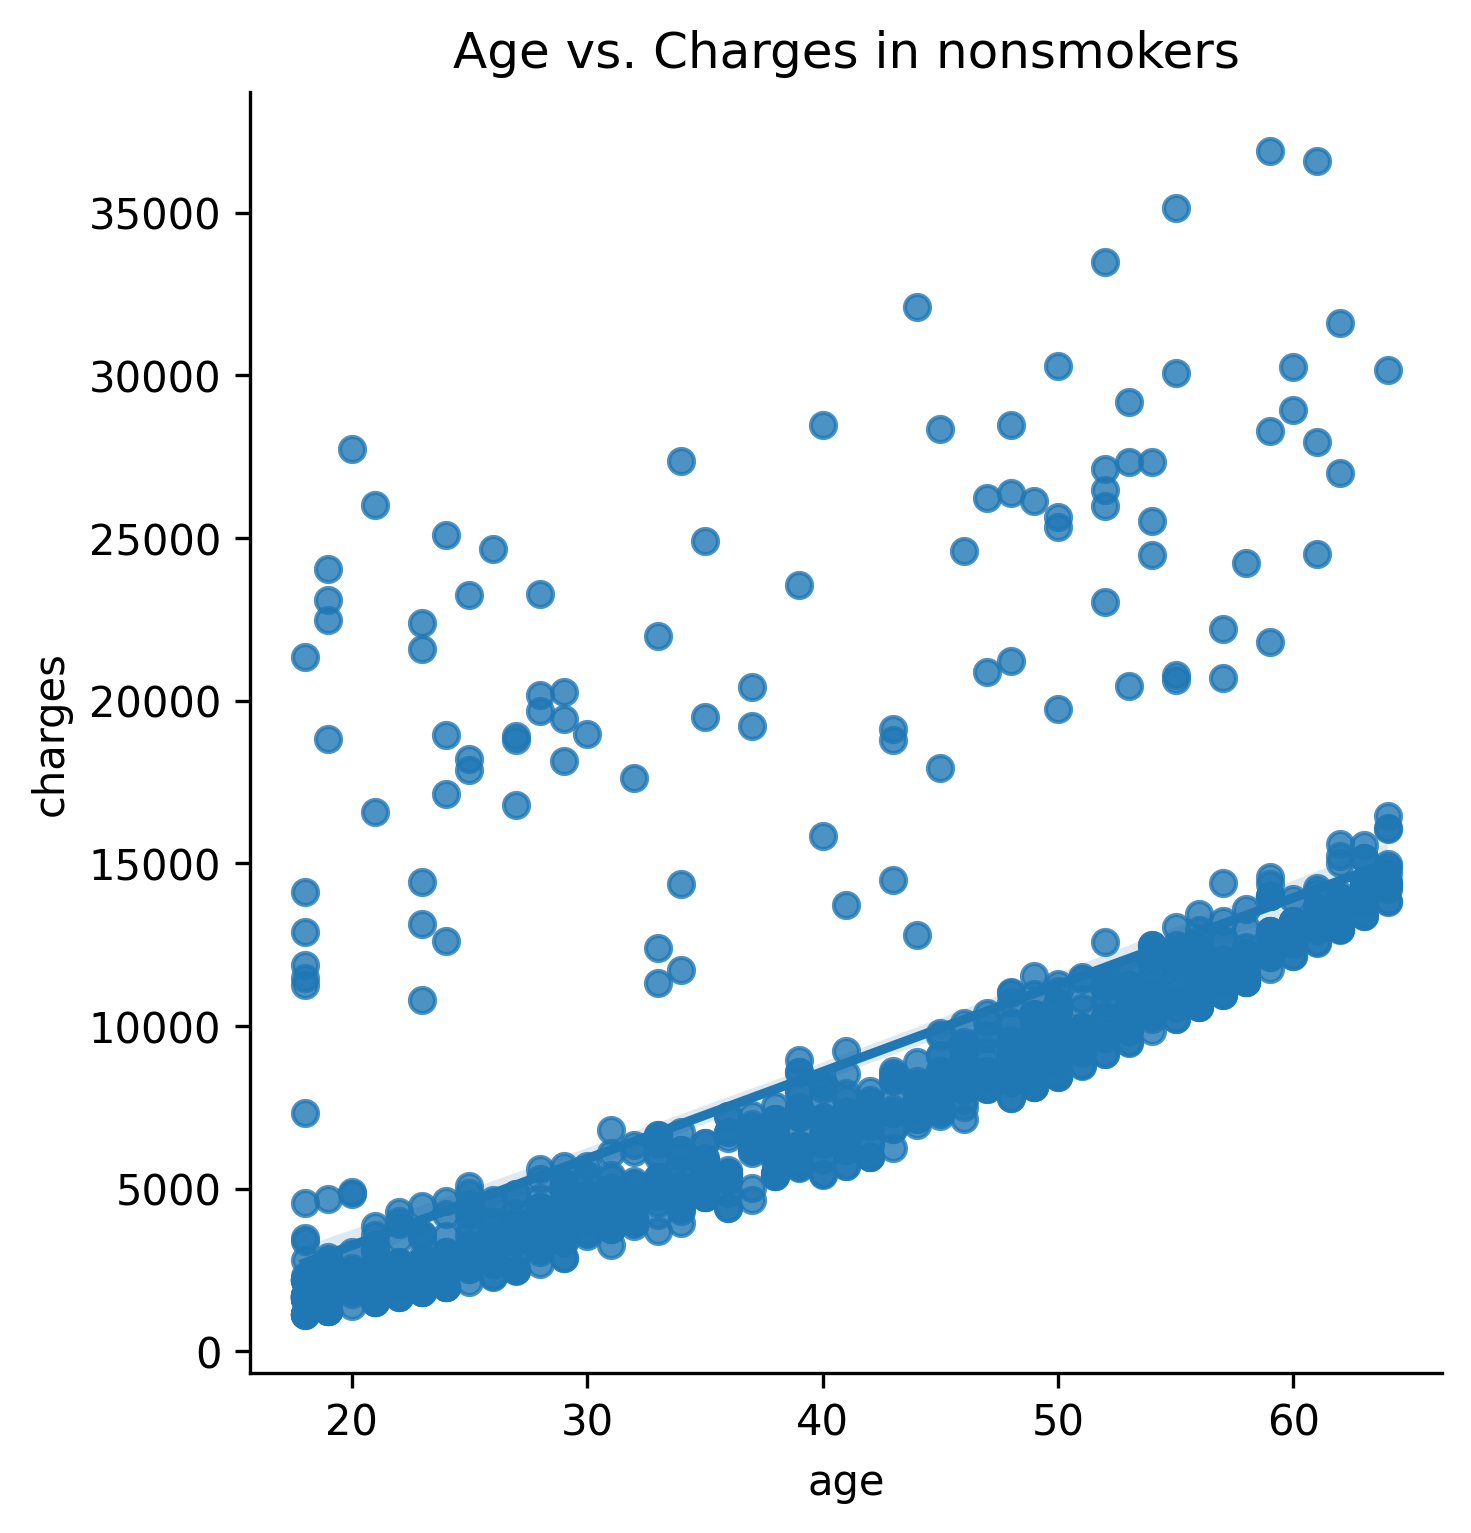
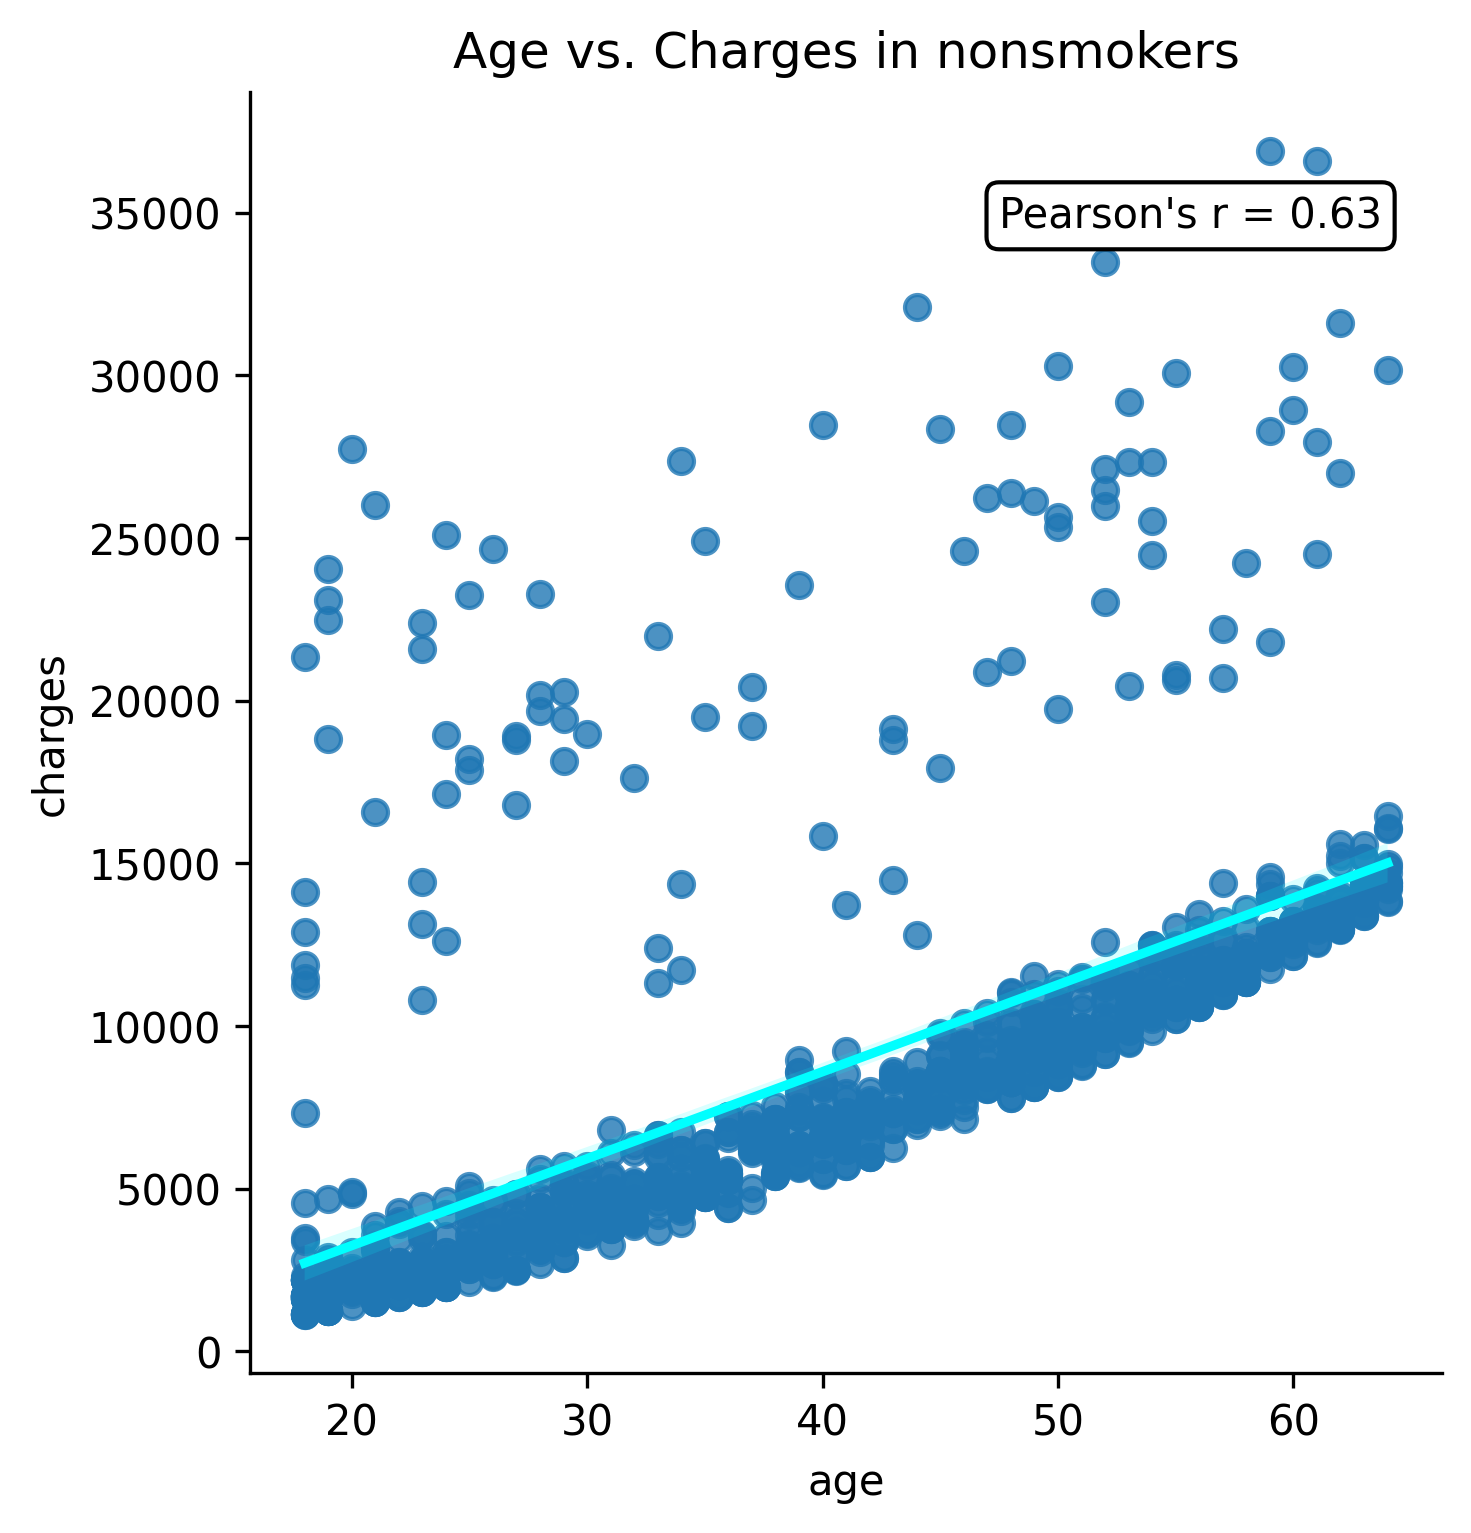
new plot

diff --git a/cost_eda.py b/cost_eda.py
@@ -472,7 +472,7 @@ for legend_label in labels:
     else:
         legend_label.set_text("Yes (Pearson's %0.2f)" %pearson_age_charge_ob)
 plt.title("Age vs. Charges in smokers, grouped by BMI (30)")
-save_filename = 'age_vs_charges_nonsmokers_grp_bmi30'
+save_filename = 'age_vs_charges_smokers_grp_bmi30'
 save_image(output_dir, save_filename, bbox_inches='tight')
 plt.show()
 
@@ -506,7 +506,7 @@ for legend_label in labels:
     else:
         legend_label.set_text("Yes (Pearson's %0.2f)" %pearson_age_charge_ob)
 plt.title("Age vs. Charges in smokers, grouped by BMI (29)")
-save_filename = 'age_vs_charges_nonsmokers_grp_bmi29'
+save_filename = 'age_vs_charges_smokers_grp_bmi29'
 save_image(output_dir, save_filename, bbox_inches='tight')
 plt.show()
 
@@ -539,37 +539,41 @@ for legend_label in labels:
     else:
         legend_label.set_text("Yes (Pearson's %0.2f)" %pearson_age_charge_ob)
 plt.title("Age vs. Charges in smokers, grouped by BMI(31)")
-save_filename = 'age_vs_charges_nonsmokers_grp_bmi31'
+save_filename = 'age_vs_charges_smokers_grp_bmi31'
 save_image(output_dir, save_filename, bbox_inches='tight')
 plt.show()
 
 # =============================
 # Explore nonsmokers
 # =============================
-sns.lmplot(x='age', y='charges', hue="children", data=nonsmokers_data)
+pearson_nonsmokers = nonsmokers_data.corr(method='pearson')['age'].loc['charges'].round(2)
+g = sns.lmplot(x='age', y='charges', data=nonsmokers_data)
+ax = g.axes[0,0]
+textbox_text = "Pearson's r = %0.2f" %pearson_nonsmokers
+plt.text(0.95, 0.92, textbox_text, bbox=box_style, transform=ax.transAxes, 
+         verticalalignment='top', horizontalalignment='right')
+
+plt.title("Age vs. Charges in nonsmokers")
+#save_filename = 'age_vs_charges_nonsmokers'
+#save_image(output_dir, save_filename, bbox_inches='tight')
 plt.show()
 
-# Nonsmokers group does not group well by BMI, sex, region, or # children (I left that code out)
-
+# Nonsmokers do not group well by BMI, sex, region, or # children (I left that code out)
 
 
 # =============================
 # Explore BMI vs. Charges
 # =============================
-
-# More Exploration
-sns.jointplot(x='bmi', y="charges", data = dataset, hue='smoker')
-plt.show()
-sns.jointplot(x='bmi', y="charges", data = dataset, kind='kde', hue='smoker')
-plt.show()
 sns.lmplot(x='bmi', y='charges', hue="smoker", data=dataset)
 plt.show()
 
+# Other subgroupings don't yield anything helpful
+
 
 
 
 # =============================
-# Explore BMI vs. Charges
+# Explore Children vs. Charges
 # =============================
 # Children vs. Charges with no obvious subgrouping
 sns.jointplot(x='children', y="charges", data = dataset, hue='smoker')
